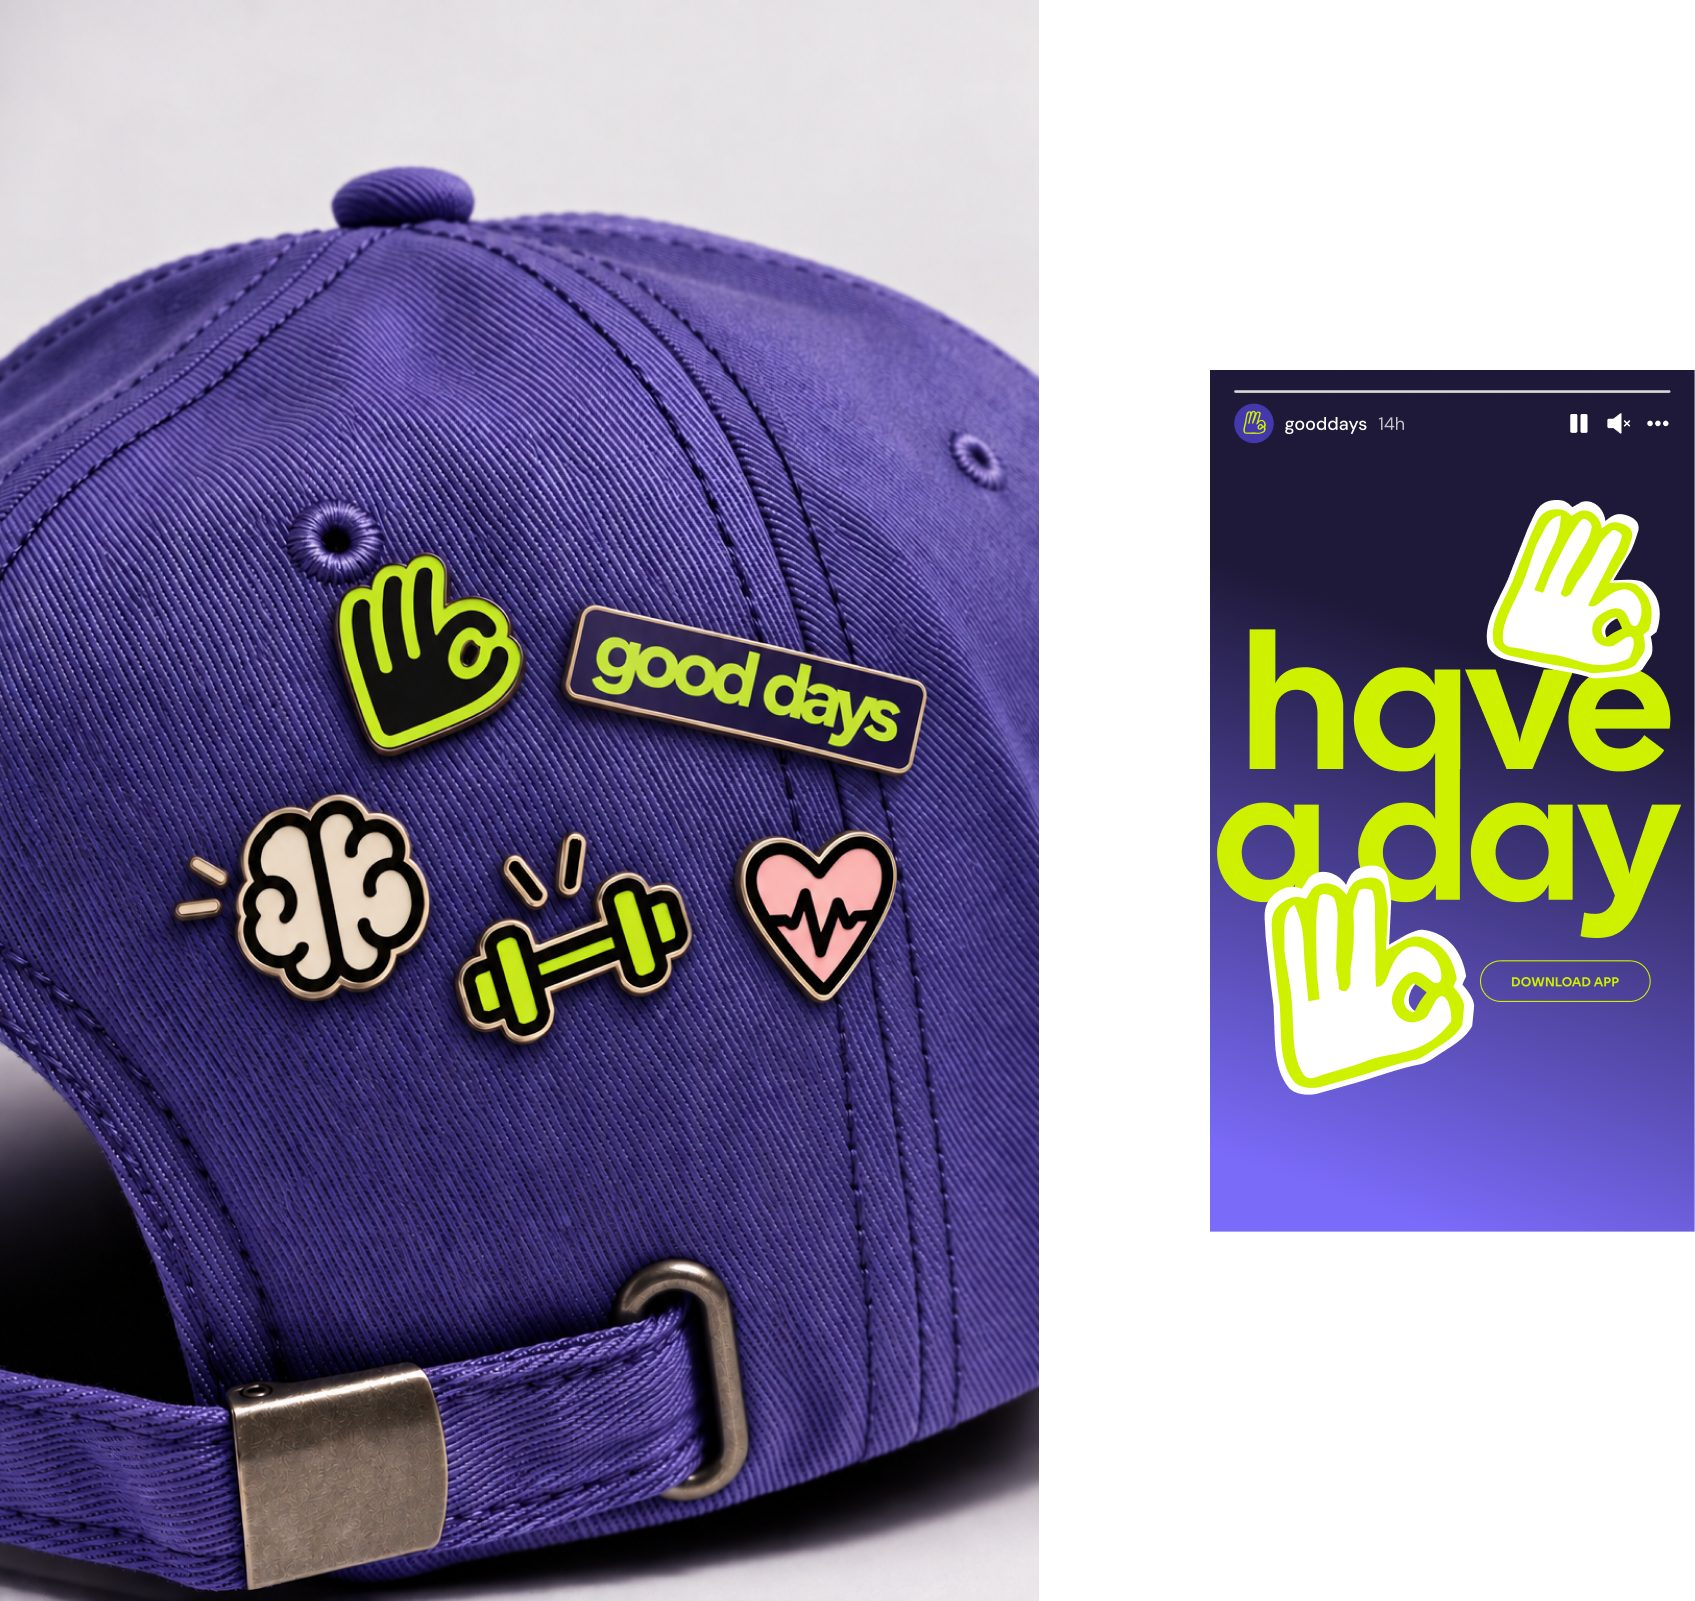
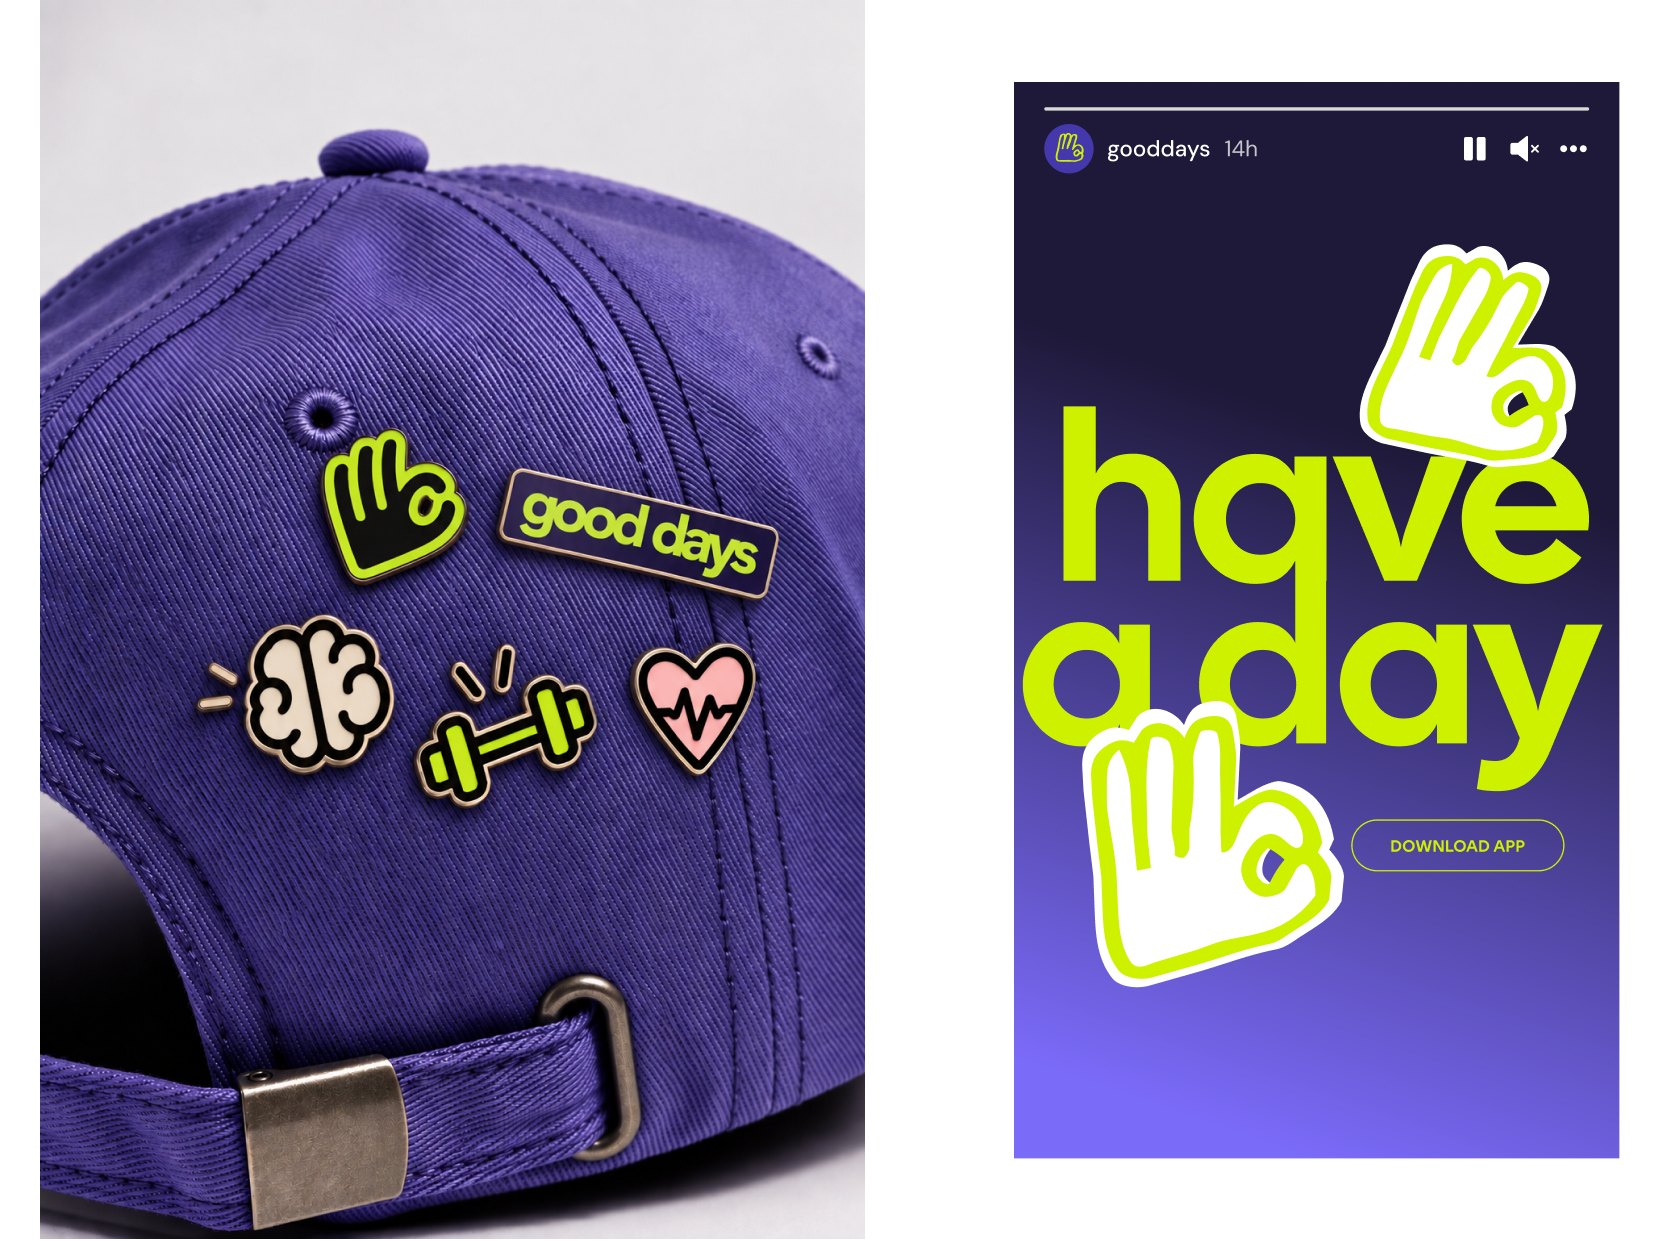
gooddays: re-cut merch band to resized Figma geometry, bump assets to v=33
Cap (18:769) and phone (14:583) were resized in the Figma frame; re-rendered
1:435 at native 1920x9961 and re-cut the merch band from the new node bounds.
gd-merch.jpg now 1660x1241 (321KB), down from 1695x1601 (370KB).

diff --git a/work.html b/work.html
@@ -27,7 +27,7 @@
 <!-- Neue Haas Grotesk Display via Adobe Fonts -->
 <link rel="stylesheet" href="https://use.typekit.net/qay0tct.css">
 <link href="https://fonts.googleapis.com/css2?family=Inter:wght@400;500;700&display=swap" rel="stylesheet">
-<link rel="stylesheet" href="styles.css?v=32">
+<link rel="stylesheet" href="styles.css?v=33">
 </head>
 <body>
 
@@ -171,6 +171,6 @@
   const io = new IntersectionObserver(es => es.forEach(e => e.isIntersecting && e.target.classList.add('in')), { threshold:.08 });
   document.querySelectorAll('.reveal').forEach(el => io.observe(el));
 </script>
-<script src="cases.js?v=32"></script>
+<script src="cases.js?v=33"></script>
 </body>
 </html>

diff --git a/index.html b/index.html
@@ -27,7 +27,7 @@
 <!-- Neue Haas Grotesk Display via Adobe Fonts -->
 <link rel="stylesheet" href="https://use.typekit.net/qay0tct.css">
 <link href="https://fonts.googleapis.com/css2?family=Inter:wght@400;500;700&display=swap" rel="stylesheet">
-<link rel="stylesheet" href="styles.css?v=32">
+<link rel="stylesheet" href="styles.css?v=33">
 </head>
 <body>
 
@@ -253,6 +253,6 @@
     });
   });
 </script>
-<script src="cases.js?v=32"></script>
+<script src="cases.js?v=33"></script>
 </body>
 </html>

diff --git a/info.html b/info.html
@@ -27,7 +27,7 @@
 <!-- Neue Haas Grotesk Display via Adobe Fonts -->
 <link rel="stylesheet" href="https://use.typekit.net/qay0tct.css">
 <link href="https://fonts.googleapis.com/css2?family=Inter:wght@400;500;700&display=swap" rel="stylesheet">
-<link rel="stylesheet" href="styles.css?v=32">
+<link rel="stylesheet" href="styles.css?v=33">
 </head>
 <body class="info-body">
 
